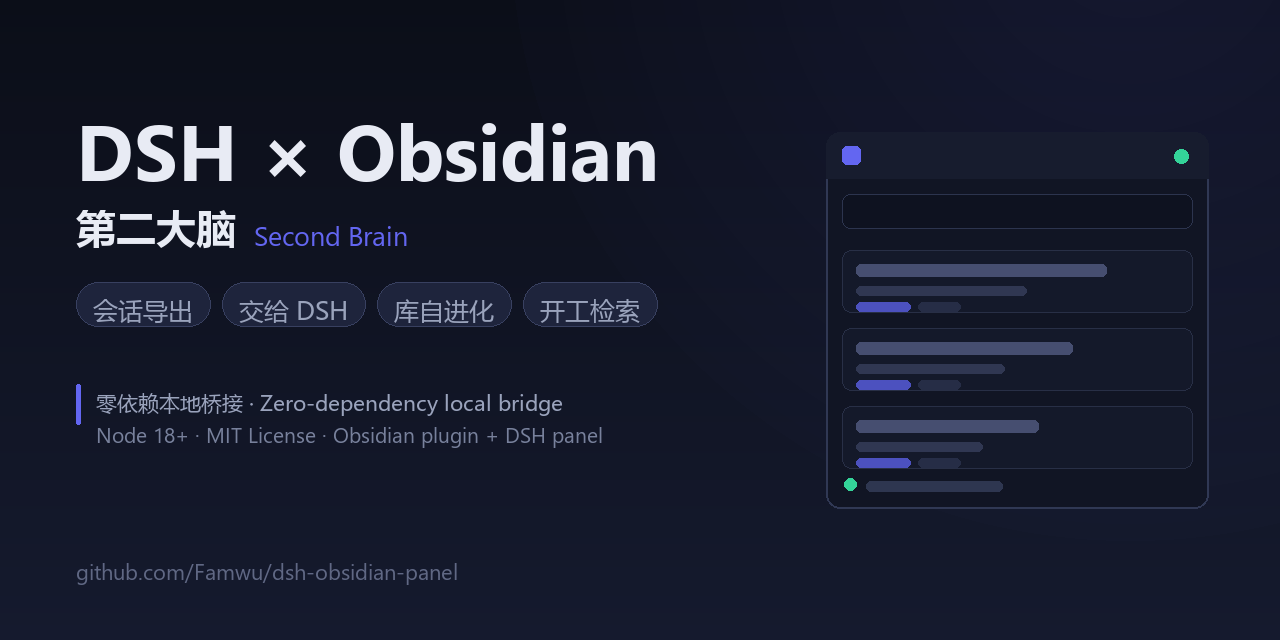
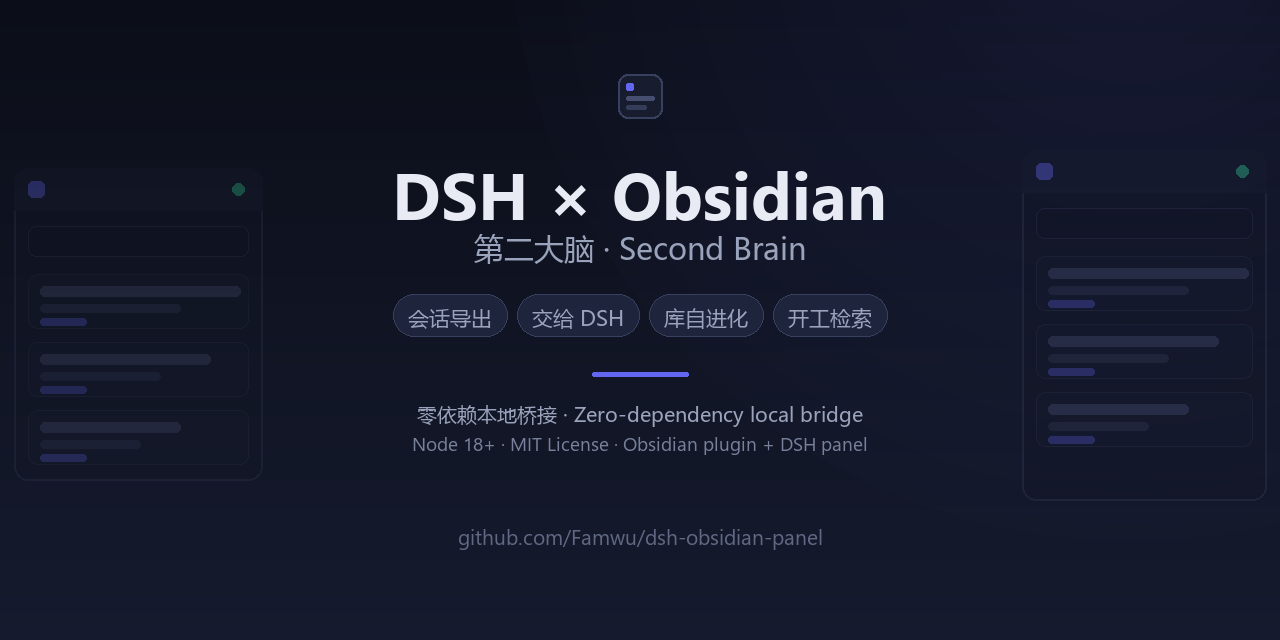
fix(social-preview): 卡片改为「中心安全构图」，修各平台裁切切掉标题的问题
问题（实测）：同一张 og:image 被各平台按不同比例裁切 —— 旧版**左对齐**构图在
  1:1（微信/QQ 小方图）下标题只剩「Obsidian」、1.33:1（Facebook）下成「H × Obsidian」、
  首个能力胶囊与页脚都缺字；只有 2:1 / 1.91:1 好看。
根因：关键内容从 x=76 起，而 1.33:1 中心裁切从 x≈215 起、1:1 从 x=320 起。

修法：
  · 关键元素（标题/副标题/胶囊/页脚/地址）全部**居中**画进 x∈[320,960]（1:1 裁切后仍在画面内的 640px 安全带）；
  · 装饰性面板示意挪到两侧边缘并降低不透明度（被裁掉不影响信息）；
  · 新增 `assert_safe()`：逐元素断言包围盒在安全带内，越界直接报错退出（不靠肉眼）；
  · 顺带修：中文 Windows 控制台是 GBK，脚本打印 ✓ 会抛 UnicodeEncodeError（断言通过却像失败）→ 强制 UTF-8 输出；
  · 脚本支持 `[输出路径]` 参数（便于先出样张再替换）。
docs/PUBLISH.md 第八节补「构图必须中心安全」的硬规则与判据。
断言输出：8 个关键元素全部落在 x∈[320,960]，最宽元素＝标题 495px（净宽 640px）。
隐私扫描（提交前）：0 命中。

diff --git a/tools/make-social-preview.py b/tools/make-social-preview.py
@@ -4,15 +4,26 @@
 为什么要脚本化：卡片迟早要跟项目一起更新（改标题/加能力），手绘一张就再也没法改了；
 放成脚本后 `python tools/make-social-preview.py` 随时重生成，产物是 docs/social-preview.png。
 
-设计口径：
-  · 底板用面板**深色主题**的配色（#0b0e18 → #151a2e）+ 右上角靛蓝柔光，和产品观感一致；
-  · 只用**两行主文案 + 四个能力词 + 一行技术定位** —— 社交卡片常常被缩到 500px 宽显示，
-    字多了一定糊；宁可少写，也不要小字。
-  · 中英双语：中文说用途、英文说定位（与仓库 About 同一口径）。
-  · 不含任何个人数据（无库名 / 无盘符 / 无机器路径）。
+## ⭐ 中心安全构图（2026-10-09 因真实裁切问题重做）
+
+同一张 og:image 会被各平台**按自己的比例裁切**后再显示，实测：
+
+| 平台/比例 | 裁切方式 | 对旧版（左对齐构图）的影响 |
+|---|---|---|
+| 2:1（Telegram/Slack/多数 unfurl） | 不裁 | 完整 ✓ |
+| 1.91:1（Twitter/X 大卡、LinkedIn、Discord） | 左右各切 ~29px | 几乎无损 ✓ |
+| 1.33:1（Facebook、微信/QQ 大图） | 左右各切 ~215px | ✗ 标题成了「H × Obsidian」、首个胶囊丢失、页脚缺字 |
+| 1:1（微信/QQ 小方图） | 左右各切 ~320px | ✗ 标题只剩「Obsidian」、URL 断头 |
+
+根因：旧版关键内容从 `x=76` 开始，而 1.33:1 的中心裁切从 `x≈215` 起、1:1 从 `x=320` 起 → 左边一律被切。
+**修法**：所有**关键元素**（标题 / 副标题 / 能力胶囊 / 页脚 / 仓库地址）一律**居中**画在中间
+`x∈[320,960]`（= 1:1 裁切后仍在画面内的 640px 安全带）内；装饰性图形（面板示意）放到安全带**之外**
+并降低不透明度 —— 被裁掉不影响信息。
+脚本会**逐元素断言**其包围盒落在安全带内，越界直接报错退出（不靠肉眼看）。
 
 依赖：Pillow（DSH 自带 Python 已装）。字体用 Windows 自带的雅黑 / Segoe UI；
 非 Windows 或字体缺失时会**明确报缺哪个字体**并退出，不静默出一张糊图。
+用法：`python tools/make-social-preview.py [输出路径]`（默认 docs/social-preview.png）
 """
 import os
 import sys
@@ -22,11 +33,21 @@ try:
 except ImportError:  # pragma: no cover
     sys.exit("需要 Pillow：python -m pip install pillow")
 
+# ⭐ 踩过的坑：Windows 控制台默认是 GBK，脚本里打印 ✓ / 中文会直接抛 UnicodeEncodeError（断言通过了却"看起来失败"）。
+# 统一把 stdout 改成 UTF-8（失败也不影响绘图，故容错处理）。
+try:
+    sys.stdout.reconfigure(encoding="utf-8", errors="replace")
+except Exception:  # pragma: no cover
+    pass
+
 W, H = 1280, 640
+CX = W // 2
+# 1:1 中心裁切后仍在画面内的横向范围 —— 关键元素必须全部落在这里
+SAFE_L, SAFE_R = CX - 320, CX + 320          # 320 .. 960
 # 卡片底部那行仓库地址（发布后写死在这里；被单独转发时别人也能找到仓库）
 REPO = "github.com/Famwu/dsh-obsidian-panel"
 HERE = os.path.dirname(os.path.abspath(__file__))
-OUT = os.path.join(os.path.dirname(HERE), "docs", "social-preview.png")
+DEFAULT_OUT = os.path.join(os.path.dirname(HERE), "docs", "social-preview.png")
 
 # 主题色（与面板深色主题一致）
 BG_TOP = (11, 14, 24)
@@ -42,6 +63,8 @@ CN_BD = "C:/Windows/Fonts/msyhbd.ttc"
 CN_RG = "C:/Windows/Fonts/msyh.ttc"
 EN_BD = "C:/Windows/Fonts/segoeuib.ttf"
 EN_RG = "C:/Windows/Fonts/segoeui.ttf"
+
+_boxes = []   # 记录关键元素的包围盒，最后统一断言
 
 
 def font(path, size, what):
@@ -82,69 +105,119 @@ def glow(img):
     return Image.alpha_composite(img.convert("RGBA"), layer).convert("RGB")
 
 
-def panel_mock(d):
-    """右侧一块抽象「侧边面板」示意（纯几何，不含任何产品文案）"""
-    x0, y0, x1, y1 = 826, 132, 1208, 508
-    d.rounded_rectangle([x0, y0, x1, y1], radius=14, fill=(17, 21, 36), outline=(48, 56, 84), width=2)
-    d.rounded_rectangle([x0, y0, x1, y0 + 46], radius=14, fill=(23, 28, 46))
-    d.rectangle([x0, y0 + 32, x1, y0 + 46], fill=(23, 28, 46))
-    # 顶部小色块 + 圆点（呼应面板头部）
-    d.rounded_rectangle([x0 + 16, y0 + 14, x0 + 34, y0 + 32], radius=5, fill=ACCENT)
-    d.ellipse([x1 - 34, y0 + 17, x1 - 20, y0 + 31], fill=(52, 211, 153))
-    # 搜索框
-    d.rounded_rectangle([x0 + 16, y0 + 62, x1 - 16, y0 + 96], radius=8, fill=(14, 18, 32), outline=(44, 52, 78), width=1)
-    # 三条「笔记」
+def decor_panel(layer, x0, y0, x1, y1, alpha):
+    """装饰用的抽象「侧边面板」示意：画在半透明层上（低不透明度 = 被裁掉不心疼）。
+    只画在安全带之外。"""
+    dd = ImageDraw.Draw(layer)
+    dd.rounded_rectangle([x0, y0, x1, y1], radius=14, fill=(17, 21, 36, alpha), outline=(48, 56, 84, alpha), width=2)
+    dd.rounded_rectangle([x0, y0, x1, y0 + 42], radius=14, fill=(23, 28, 46, alpha))
+    dd.rectangle([x0, y0 + 30, x1, y0 + 42], fill=(23, 28, 46, alpha))
+    dd.rounded_rectangle([x0 + 14, y0 + 13, x0 + 30, y0 + 29], radius=5, fill=(ACCENT[0], ACCENT[1], ACCENT[2], alpha))
+    dd.ellipse([x1 - 30, y0 + 15, x1 - 18, y0 + 27], fill=(52, 211, 153, alpha))
+    dd.rounded_rectangle([x0 + 14, y0 + 58, x1 - 14, y0 + 88], radius=8, fill=(14, 18, 32, alpha), outline=(44, 52, 78, alpha), width=1)
     for i in range(3):
-        ty = y0 + 118 + i * 78
-        d.rounded_rectangle([x0 + 16, ty, x1 - 16, ty + 62], radius=9, fill=(20, 25, 42), outline=(40, 47, 70), width=1)
-        d.rounded_rectangle([x0 + 30, ty + 14, x0 + 30 + (250 - i * 34), ty + 26], radius=5, fill=(70, 78, 112))
-        d.rounded_rectangle([x0 + 30, ty + 36, x0 + 30 + (170 - i * 22), ty + 45], radius=4, fill=(48, 55, 82))
-        d.rounded_rectangle([x0 + 30, ty + 52, x0 + 30 + 54, ty + 61], radius=4, fill=(ACCENT_SOFT[0], ACCENT_SOFT[1], ACCENT_SOFT[2]))
-        d.rounded_rectangle([x0 + 92, ty + 52, x0 + 92 + 42, ty + 61], radius=4, fill=(38, 45, 70))
-    # 底部一行（在线状态）
-    d.ellipse([x0 + 18, y1 - 30, x0 + 30, y1 - 18], fill=(52, 211, 153))
-    d.rounded_rectangle([x0 + 40, y1 - 27, x0 + 176, y1 - 17], radius=5, fill=(46, 54, 80))
+        ty = y0 + 106 + i * 68
+        dd.rounded_rectangle([x0 + 14, ty, x1 - 14, ty + 54], radius=9, fill=(20, 25, 42, alpha), outline=(40, 47, 70, alpha), width=1)
+        dd.rounded_rectangle([x0 + 26, ty + 12, x0 + 26 + (200 - i * 30), ty + 22], radius=5, fill=(70, 78, 112, alpha))
+        dd.rounded_rectangle([x0 + 26, ty + 30, x0 + 26 + (140 - i * 20), ty + 38], radius=4, fill=(48, 55, 82, alpha))
+        dd.rounded_rectangle([x0 + 26, ty + 44, x0 + 26 + 46, ty + 51], radius=4, fill=(ACCENT_SOFT[0], ACCENT_SOFT[1], ACCENT_SOFT[2], alpha))
+    return layer
+
+
+def text_c(d, text, y, f, fill, what):
+    """居中画一行；记录包围盒用于「必须在安全带内」的断言"""
+    w = d.textlength(text, font=f)
+    x = round(CX - w / 2)
+    d.text((x, y), text, font=f, fill=fill)
+    bbox = d.textbbox((x, y), text, font=f)
+    _boxes.append((what, text, bbox))
+    return bbox
+
+
+def build():
+    global _boxes
+    _boxes = []
+    img = glow(gradient())
+
+    # ① 装饰（安全带之外、低不透明度）—— 先画，给中间留干净底
+    deco = Image.new("RGBA", (W, H), (0, 0, 0, 0))
+    decor_panel(deco, 14, 168, 262, 480, 78)       # 左边缘
+    decor_panel(deco, 1022, 150, 1266, 500, 96)    # 右边缘
+    img = Image.alpha_composite(img.convert("RGBA"), deco).convert("RGB")
+    d = ImageDraw.Draw(img)
+
+    # ② 顶部小图标：抽象面板（44px 宽，落在安全带内）
+    icon = Image.new("RGBA", (W, H), (0, 0, 0, 0))
+    di = ImageDraw.Draw(icon)
+    ix0, iy0 = CX - 22, 74
+    di.rounded_rectangle([ix0, iy0, ix0 + 44, iy0 + 44], radius=10, fill=(23, 28, 46, 255), outline=(56, 64, 96, 255), width=2)
+    di.rounded_rectangle([ix0 + 8, iy0 + 9, ix0 + 15, iy0 + 16], radius=2, fill=ACCENT)
+    di.rounded_rectangle([ix0 + 8, iy0 + 22, ix0 + 36, iy0 + 26], radius=2, fill=(70, 78, 112))
+    di.rounded_rectangle([ix0 + 8, iy0 + 31, ix0 + 28, iy0 + 35], radius=2, fill=(52, 60, 88))
+    img = Image.alpha_composite(img.convert("RGBA"), icon).convert("RGB")
+    d = ImageDraw.Draw(img)
+    _boxes.append(("顶部图标", "[icon]", (ix0, iy0, ix0 + 44, iy0 + 44)))
+
+    # ③ 关键元素：全部居中，且必须落在安全带内
+    f_title = pick(CN_BD, EN_BD, 66, "DSH × Obsidian", "标题")
+    text_c(d, "DSH × Obsidian", 148, f_title, TX, "标题")
+
+    f_sub = pick(CN_RG, EN_RG, 30, "第二大脑 · Second Brain", "副标题")
+    text_c(d, "第二大脑 · Second Brain", 228, f_sub, TX2, "副标题")
+
+    # 能力胶囊（居中排一行）
+    f_chip = font(CN_RG, 21, "能力词")
+    chips = ["会话导出", "交给 DSH", "库自进化", "开工检索"]
+    gap, pad = 10, 15
+    widths = [d.textlength(c, font=f_chip) + pad * 2 for c in chips]
+    total = sum(widths) + gap * (len(chips) - 1)
+    cx = round(CX - total / 2)
+    for c, cw in zip(chips, widths):
+        d.rounded_rectangle([cx, 294, cx + cw, 336], radius=21, fill=CHIP_BG, outline=CHIP_BD, width=1)
+        d.text((cx + pad, 303), c, font=f_chip, fill=TX2)
+        cx += cw + gap
+    _boxes.append(("胶囊行", " / ".join(chips), (round(CX - total / 2), 294, round(CX + total / 2), 336)))
+
+    # 短强调线（居中）
+    d.rounded_rectangle([CX - 48, 372, CX + 48, 376], radius=2, fill=ACCENT)
+    _boxes.append(("强调线", "[rule]", (CX - 48, 372, CX + 48, 376)))
+
+    foot1 = "零依赖本地桥接 · Zero-dependency local bridge"
+    foot2 = "Node 18+ · MIT License · Obsidian plugin + DSH panel"
+    f_foot1 = pick(CN_RG, EN_RG, 20, foot1, "页脚一")
+    f_foot2 = pick(CN_RG, EN_RG, 19, foot2, "页脚二")
+    text_c(d, foot1, 400, f_foot1, TX2, "页脚一")
+    text_c(d, foot2, 430, f_foot2, (120, 129, 156), "页脚二")
+
+    f_repo = pick(CN_RG, EN_RG, 21, REPO, "仓库地址")
+    text_c(d, REPO, 522, f_repo, (96, 104, 132), "仓库地址")
+
+    return img
+
+
+def assert_safe():
+    bad = []
+    for what, text, box in _boxes:
+        if box[0] < SAFE_L or box[2] > SAFE_R:
+            bad.append(f"{what}：x {box[0]}..{box[2]} 越界（安全带 {SAFE_L}..{SAFE_R}）「{text[:28]}」")
+    if bad:
+        print("✗ 中心安全断言失败：")
+        for b in bad:
+            print("   " + b)
+        sys.exit(1)
+    widest = max((b[2] - b[0], what) for what, _, b in _boxes)
+    print(f"✓ 中心安全断言通过：{len(_boxes)} 个关键元素的包围盒全部落在 x∈[{SAFE_L},{SAFE_R}]")
+    print(f"  最宽元素：{widest[1]}（{widest[0]}px，安全带净宽 {SAFE_R - SAFE_L}px）")
 
 
 def main():
-    img = glow(gradient())
-    d = ImageDraw.Draw(img)
-    panel_mock(d)
-
-    x = 76
-    f_title = pick(CN_BD, EN_BD, 78, "DSH × Obsidian", "标题")
-    f_sub_cn = font(CN_BD, 40, "中文副标题")
-    f_sub_en = font(EN_RG, 27, "英文副标题")
-    f_chip = font(CN_RG, 25, "能力词")
-
-    d.text((x, 96), "DSH × Obsidian", font=f_title, fill=TX)
-    d.text((x, 200), "第二大脑", font=f_sub_cn, fill=TX)
-    d.text((x + 178, 216), "Second Brain", font=f_sub_en, fill=ACCENT)
-
-    # 四个能力词（胶囊）
-    chips = ["会话导出", "交给 DSH", "库自进化", "开工检索"]
-    cx = x
-    for c in chips:
-        tw = d.textlength(c, font=f_chip)
-        d.rounded_rectangle([cx, 282, cx + tw + 34, 326], radius=22, fill=CHIP_BG, outline=CHIP_BD, width=1)
-        d.text((cx + 17, 293), c, font=f_chip, fill=TX2)
-        cx += tw + 34 + 12
-
-    # 页脚：技术定位（与仓库 About 口径一致）
-    foot1 = "零依赖本地桥接 · Zero-dependency local bridge"
-    foot2 = "Node 18+ · MIT License · Obsidian plugin + DSH panel"
-    f_foot1 = pick(CN_RG, EN_RG, 21, foot1, "页脚中文行")
-    f_foot2 = pick(CN_RG, EN_RG, 21, foot2, "页脚西文行")
-    d.rounded_rectangle([x, 384, x + 4, 424], radius=2, fill=ACCENT)
-    d.text((x + 20, 388), foot1, font=f_foot1, fill=TX2)
-    d.text((x + 20, 420), foot2, font=f_foot2, fill=(120, 129, 156))
-    f_repo = pick(CN_RG, EN_RG, 22, REPO, "仓库地址")
-    d.text((x, 556), REPO, font=f_repo, fill=(96, 104, 132))
-
-    os.makedirs(os.path.dirname(OUT), exist_ok=True)
-    img.save(OUT, "PNG", optimize=True)
-    kb = os.path.getsize(OUT) / 1024
-    print(f"已生成 {OUT}")
+    out = sys.argv[1] if len(sys.argv) > 1 else DEFAULT_OUT
+    img = build()
+    assert_safe()
+    os.makedirs(os.path.dirname(os.path.abspath(out)), exist_ok=True)
+    img.save(out, "PNG", optimize=True)
+    kb = os.path.getsize(out) / 1024
+    print(f"已生成 {out}")
     print(f"尺寸 {img.size[0]}x{img.size[1]}（GitHub 推荐 1280x640，2:1）· {kb:.1f} KB（上限 1024 KB）")
     if img.size != (1280, 640) or kb > 1024:
         sys.exit("不符合 GitHub 的 social preview 约束")

diff --git a/docs/PUBLISH.md b/docs/PUBLISH.md
@@ -145,3 +145,14 @@ $h = curl.exe -s -A "Mozilla/5.0" https://github.com/<owner>/<repo>
    拿旧 hash 只会看到旧状态；**必须以页面 HTML 里的实际 URL 为准**。
 2. **验证判据不要自证**：我一度用"从被怀疑文件上读来的哈希"当期望值，等于拿文件跟它自己比，得出过错误结论。
    图片类校验要用**独立判据**（尺寸 + 平均色：模板/默认卡是浅色 ~(241,239,237)，本项目卡片是深色 ~(24,28,46)）。
+### 构图必须「**中心安全**」（2026-10-09 复查各平台裁切后加的硬规则）
+
+同一张 `og:image` 会被各平台**按自己的比例裁切**：1:1（微信/QQ 小方图）、1.33:1（Facebook）、
+1.91:1（Twitter/X 大卡、LinkedIn、Discord）、2:1（Telegram/Slack）。实测**左对齐**构图的后果：
+1:1 裁切后标题只剩「Obsidian」、1.33:1 后成「H × Obsidian」、首个能力胶囊与页脚都缺字。
+
+**规则**：关键元素（标题 / 副标题 / 能力胶囊 / 页脚 / 仓库地址）一律**居中**画进
+`x∈[320,960]`（= 1280×640 被 1:1 中心裁切后**仍在画面内**的 640px 安全带）；
+装饰性图形（面板示意）放到安全带**之外**并降低不透明度 —— 被裁掉不影响信息。
+`tools/make-social-preview.py` 会**逐元素断言**包围盒落在安全带内，越界直接报错退出（不靠肉眼）。
+改完仍要**亲眼看一遍** 2:1 与 1:1 两种裁切。
